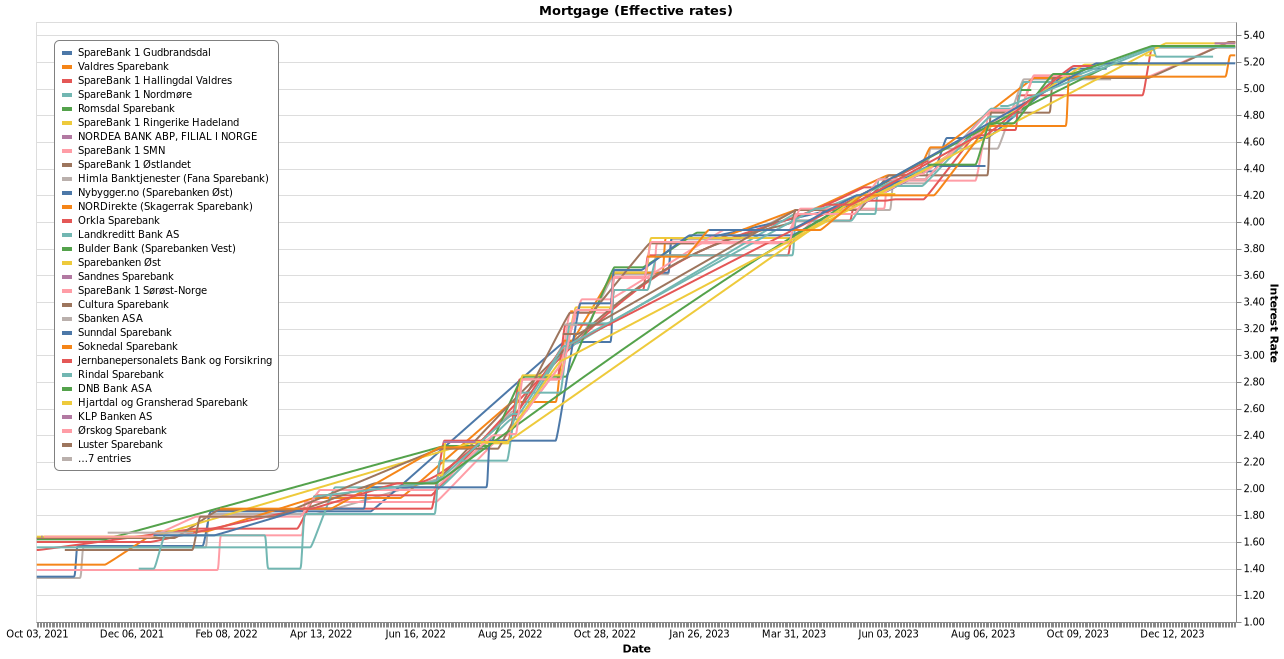
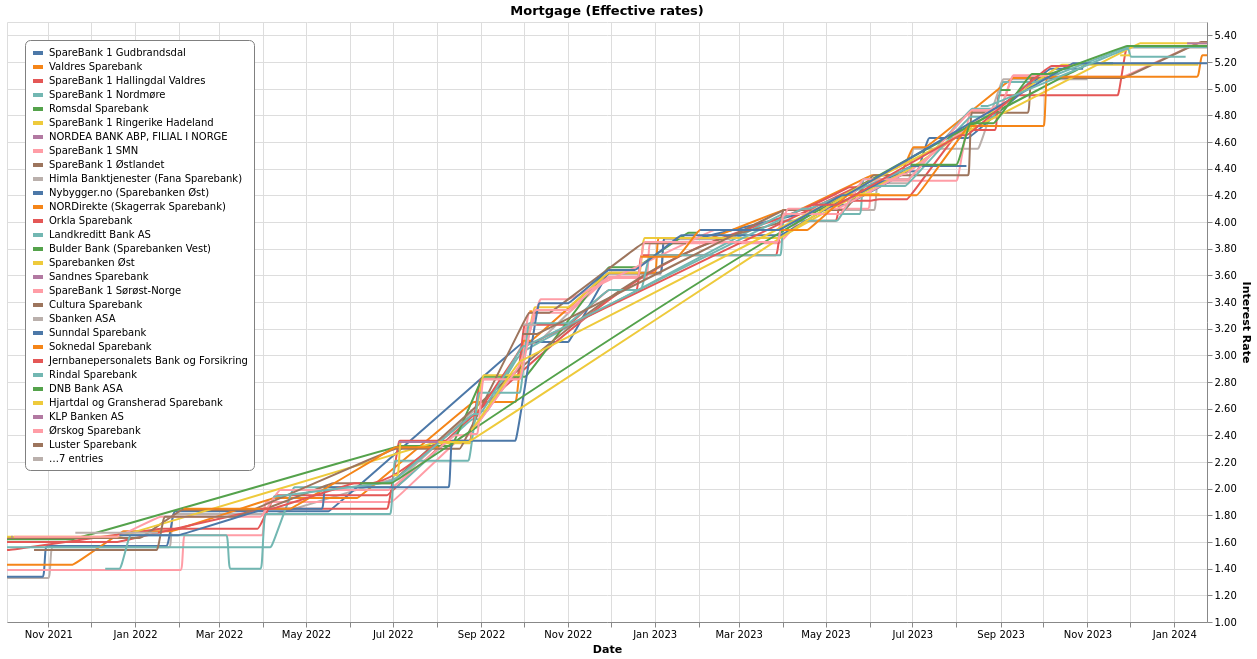
Update date format in mortgage graph

diff --git a/graphs.py b/graphs.py
@@ -18,7 +18,10 @@ def mortgage():
         alt.Chart(df, title="Mortgage (Effective rates)")
         .mark_line(interpolate="basis")
         .encode(
-            x=alt.X("yearmonthdate(date):O", axis=alt.Axis(title="Date")),
+            x=alt.X(
+                "yearmonthdate(date):T",
+                axis=alt.Axis(title="Date", format="%b %Y"),
+            ),
             y=alt.Y(
                 "rate_effective:Q",
                 title="Interest Rate",
